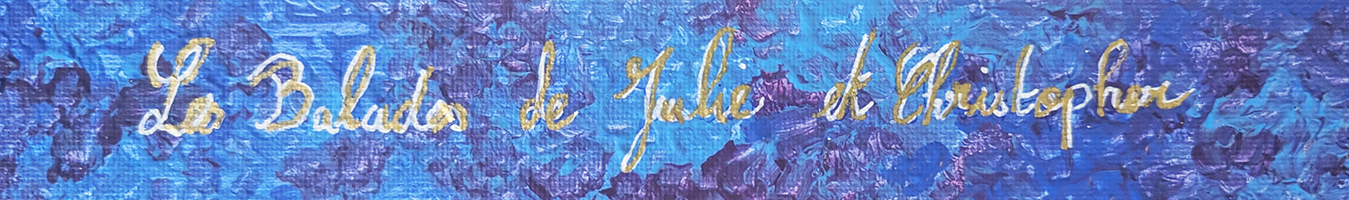
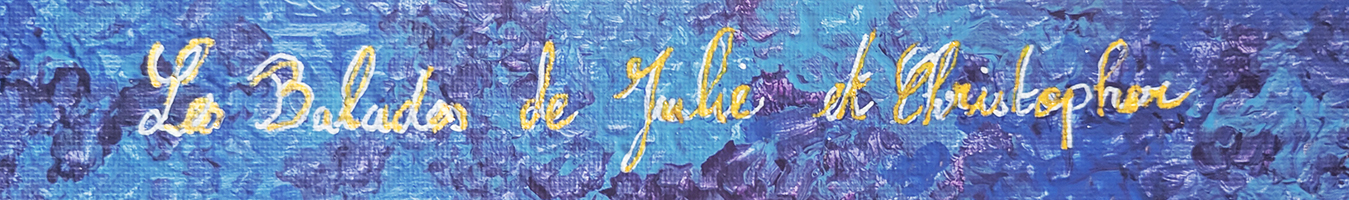
baniere

diff --git a/posts/superfacial/index.html b/posts/superfacial/index.html
@@ -99,15 +99,6 @@ Une mini expo, mais qui a le bon goût d’être gratuite. Au rendez-vous : humo
             <ul class="nav navbar-nav navbar-right">
         <li><a href="https://balades-parisiennes.github.io/blog/posts/projet-blog/">About</a></li>
         <li><a href="https://github.com/balades-parisiennes/blog/wiki">Contact</a></li>
-        <li class="dropdown">
-          <a href="#" class="dropdown-toggle" data-toggle="dropdown" role="button" aria-haspopup="true" aria-expanded="false">Download <span class="caret"></span></a>
-          <ul class="dropdown-menu">
-            <li><a target="_blank" href="https://github.com/bul-ikana/hugo-cards">Project</a></li>
-            <li><a href="https://github.com/bul-ikana/hugo-cards.git">Download</a></li>
-            <li role="separator" class="divider"></li>
-            <li><a target="_blank" href="https://themes.gohugo.io/">More Themes</a></li>
-          </ul>
-        </li>
       </ul>
     </div>
   </div>
@@ -115,8 +106,8 @@ Une mini expo, mais qui a le bon goût d’être gratuite. Au rendez-vous : humo
   <div style="display: flex; justify-content: center; padding: 10px 0;">
     <a href="https://balades-parisiennes.github.io/blog/">
         <img src="/blog/images/images/baniere_s.jpg" alt="Accueil"
-           style="max-height: 70px; height:auto; border-radius:8px;">
-		<br>
+           style="max-height: 80px; height:auto; border-radius:8px;">
+		<br><br>
     </a>
   </div>
 </nav>
@@ -144,7 +135,7 @@ Une mini expo, mais qui a le bon goût d’être gratuite. Au rendez-vous : humo
 <p>Il fait beau, direction les quais de Seine.
 On mange – c’est pas bon et ça coûte 20 euros… alors pour se consoler :
 Direction les Quais de la Photo !</p>
-<h2 id="hahahugoshortcode7s0hbhb"><table style="margin:auto; text-align:center;">
+<h2 id="hahahugoshortcode4s0hbhb"><table style="margin:auto; text-align:center;">
   <tr><td>
       <a href="https://res.cloudinary.com/dzxydg8dv/image/upload/v1750679100/1_hcmgzy.jpg" data-lightbox="galerie" data-title="Image 1">
         <img src="https://res.cloudinary.com/dzxydg8dv/image/upload/v1750679100/1_hcmgzy.jpg" alt="Image 1" style="max-height: 400px; object-fit: contain;" />
@@ -164,7 +155,7 @@ Au rendez-vous : humour et introspection.
 Comme d’habitude, de la sincérité – les artifices ne sont qu’artistiques.
 C’est émouvant, c’est touchant, et on n’en a pas assez…
 Ce qui est plutôt cocasse, pour une SUPERFACIAL.</p>
-<h2 id="hahahugoshortcode7s1hbhb"><table style="margin:auto; text-align:center;">
+<h2 id="hahahugoshortcode4s1hbhb"><table style="margin:auto; text-align:center;">
   <tr><td>
       <a href="https://res.cloudinary.com/dzxydg8dv/image/upload/v1750679100/4_a6gkmw.jpg" data-lightbox="galerie" data-title="Image 1">
         <img src="https://res.cloudinary.com/dzxydg8dv/image/upload/v1750679100/4_a6gkmw.jpg" alt="Image 1" style="max-height: 400px; object-fit: contain;" />
@@ -179,7 +170,7 @@ Ce qui est plutôt cocasse, pour une SUPERFACIAL.</p>
       </a>
     </td></tr>
 </table></h2>
-<h2 id="hahahugoshortcode7s2hbhb"><table style="margin:auto; text-align:center;">
+<h2 id="hahahugoshortcode4s2hbhb"><table style="margin:auto; text-align:center;">
   <tr><td>
       <a href="https://res.cloudinary.com/dzxydg8dv/image/upload/v1750679100/7_eo4djh.jpg" data-lightbox="galerie" data-title="Image 1">
         <img src="https://res.cloudinary.com/dzxydg8dv/image/upload/v1750679100/7_eo4djh.jpg" alt="Image 1" style="max-height: 400px; object-fit: contain;" />

diff --git a/posts/house-of-dream/index.html b/posts/house-of-dream/index.html
@@ -96,15 +96,6 @@ House of Dreamers, c’est une succession de tableaux tout droit sortis d’un r
             <ul class="nav navbar-nav navbar-right">
         <li><a href="https://balades-parisiennes.github.io/blog/posts/projet-blog/">About</a></li>
         <li><a href="https://github.com/balades-parisiennes/blog/wiki">Contact</a></li>
-        <li class="dropdown">
-          <a href="#" class="dropdown-toggle" data-toggle="dropdown" role="button" aria-haspopup="true" aria-expanded="false">Download <span class="caret"></span></a>
-          <ul class="dropdown-menu">
-            <li><a target="_blank" href="https://github.com/bul-ikana/hugo-cards">Project</a></li>
-            <li><a href="https://github.com/bul-ikana/hugo-cards.git">Download</a></li>
-            <li role="separator" class="divider"></li>
-            <li><a target="_blank" href="https://themes.gohugo.io/">More Themes</a></li>
-          </ul>
-        </li>
       </ul>
     </div>
   </div>
@@ -112,8 +103,8 @@ House of Dreamers, c’est une succession de tableaux tout droit sortis d’un r
   <div style="display: flex; justify-content: center; padding: 10px 0;">
     <a href="https://balades-parisiennes.github.io/blog/">
         <img src="/blog/images/images/baniere_s.jpg" alt="Accueil"
-           style="max-height: 70px; height:auto; border-radius:8px;">
-		<br>
+           style="max-height: 80px; height:auto; border-radius:8px;">
+		<br><br>
     </a>
   </div>
 </nav>
@@ -142,7 +133,7 @@ House of Dreamers, c’est une succession de tableaux tout droit sortis d’un r
 <em>À tous les rêveurs lucides, magiciens de l’ordinaire, enfants du crépuscule.</em>
 <em>Et même à ceux que la brume du réel a endormis…</em>
 <strong>L’exposition House of Dreamers vous tend la main — pour un voyage au-delà du visible.</strong></p>
-<h2 id="hahahugoshortcode2s0hbhb"><table style="margin:auto; text-align:center;">
+<h2 id="hahahugoshortcode6s0hbhb"><table style="margin:auto; text-align:center;">
   <tr><td>
       <a href="https://res.cloudinary.com/dzxydg8dv/image/upload/v1750924009/4_resultat_eedcuq.jpg" data-lightbox="galerie" data-title="Image 1">
         <img src="https://res.cloudinary.com/dzxydg8dv/image/upload/v1750924009/4_resultat_eedcuq.jpg" alt="Image 1" style="max-height: 400px; object-fit: contain;" />
@@ -161,7 +152,7 @@ House of Dreamers, c’est une succession de tableaux tout droit sortis d’un r
 Un régal technicolor, une route arc-en-ciel, un gâteau psychédélique à déguster des yeux.</p>
 <p>On randonne en forêt enchantée, on nage dans une mare de boules couleur bubble gum.
 On fait du sport, avant de venir se reposer dans les pièces d’une maison sens dessus dessous.</p>
-<h2 id="hahahugoshortcode2s1hbhb"><table style="margin:auto; text-align:center;">
+<h2 id="hahahugoshortcode6s1hbhb"><table style="margin:auto; text-align:center;">
   <tr><td>
       <a href="https://res.cloudinary.com/dzxydg8dv/image/upload/v1750924009/1_resultat_y6pcbx.jpg" data-lightbox="galerie" data-title="Image 1">
         <img src="https://res.cloudinary.com/dzxydg8dv/image/upload/v1750924009/1_resultat_y6pcbx.jpg" alt="Image 1" style="max-height: 400px; object-fit: contain;" />

diff --git a/posts/artemisia/index.html b/posts/artemisia/index.html
@@ -96,15 +96,6 @@ Sans le savoir, je découvrais de nouveau une artiste dans les sujets qui m’an
             <ul class="nav navbar-nav navbar-right">
         <li><a href="https://balades-parisiennes.github.io/blog/posts/projet-blog/">About</a></li>
         <li><a href="https://github.com/balades-parisiennes/blog/wiki">Contact</a></li>
-        <li class="dropdown">
-          <a href="#" class="dropdown-toggle" data-toggle="dropdown" role="button" aria-haspopup="true" aria-expanded="false">Download <span class="caret"></span></a>
-          <ul class="dropdown-menu">
-            <li><a target="_blank" href="https://github.com/bul-ikana/hugo-cards">Project</a></li>
-            <li><a href="https://github.com/bul-ikana/hugo-cards.git">Download</a></li>
-            <li role="separator" class="divider"></li>
-            <li><a target="_blank" href="https://themes.gohugo.io/">More Themes</a></li>
-          </ul>
-        </li>
       </ul>
     </div>
   </div>
@@ -112,8 +103,8 @@ Sans le savoir, je découvrais de nouveau une artiste dans les sujets qui m’an
   <div style="display: flex; justify-content: center; padding: 10px 0;">
     <a href="https://balades-parisiennes.github.io/blog/">
         <img src="/blog/images/images/baniere_s.jpg" alt="Accueil"
-           style="max-height: 70px; height:auto; border-radius:8px;">
-		<br>
+           style="max-height: 80px; height:auto; border-radius:8px;">
+		<br><br>
     </a>
   </div>
 </nav>
@@ -141,7 +132,7 @@ Sans le savoir, je découvrais de nouveau une artiste dans les sujets qui m’an
 <p>Sans le savoir, je découvrais de nouveau une artiste dans les sujets qui m’animent depuis presque douze mois : le combat contre les violences faites aux femmes.</p>
 <p>Artemisia Gentileschi est fille de peintre italien au XVIIe siècle. Sa mère étant décédée pendant sa jeunesse, elle est élevée par son père Orazio. Violée par l’un des amis artistes de son père à l’âge de 18 ans, contre toute attente, son père la défend et porte plainte. Durant le procès elle est torturée pour vérifier la véracité de ses propos. Elle gagne le procès mais l’homme ne sera jamais condamné.</p>
 <p><strong>Très douée, elle suit les traces de son père et devient peintre de cour à succès, sous le patronage des Médicis et du roi d&rsquo;Angleterre Charles Ier.</strong></p>
-<h2 id="hahahugoshortcode6s0hbhb"><table style="margin:auto; text-align:center;">
+<h2 id="hahahugoshortcode5s0hbhb"><table style="margin:auto; text-align:center;">
   <tr><td>
       <a href="https://res.cloudinary.com/dzxydg8dv/image/upload/v1750866646/3_kai3j9.jpg" data-lightbox="galerie" data-title="Image 1">
         <img src="https://res.cloudinary.com/dzxydg8dv/image/upload/v1750866646/3_kai3j9.jpg" alt="Image 1" style="max-height: 400px; object-fit: contain;" />

diff --git a/posts/projet-blog/index.html b/posts/projet-blog/index.html
@@ -102,15 +102,6 @@ les œuvres qui nous ont éblouis, les bancs les plus confortables, et même les
             <ul class="nav navbar-nav navbar-right">
         <li><a href="https://balades-parisiennes.github.io/blog/posts/projet-blog/">About</a></li>
         <li><a href="https://github.com/balades-parisiennes/blog/wiki">Contact</a></li>
-        <li class="dropdown">
-          <a href="#" class="dropdown-toggle" data-toggle="dropdown" role="button" aria-haspopup="true" aria-expanded="false">Download <span class="caret"></span></a>
-          <ul class="dropdown-menu">
-            <li><a target="_blank" href="https://github.com/bul-ikana/hugo-cards">Project</a></li>
-            <li><a href="https://github.com/bul-ikana/hugo-cards.git">Download</a></li>
-            <li role="separator" class="divider"></li>
-            <li><a target="_blank" href="https://themes.gohugo.io/">More Themes</a></li>
-          </ul>
-        </li>
       </ul>
     </div>
   </div>
@@ -118,8 +109,8 @@ les œuvres qui nous ont éblouis, les bancs les plus confortables, et même les
   <div style="display: flex; justify-content: center; padding: 10px 0;">
     <a href="https://balades-parisiennes.github.io/blog/">
         <img src="/blog/images/images/baniere_s.jpg" alt="Accueil"
-           style="max-height: 70px; height:auto; border-radius:8px;">
-		<br>
+           style="max-height: 80px; height:auto; border-radius:8px;">
+		<br><br>
     </a>
   </div>
 </nav>

diff --git a/posts/mystere-cleopatre/index.html b/posts/mystere-cleopatre/index.html
@@ -99,15 +99,6 @@ Deuxième salle. Et bam ! Les Romains débarquent. Pas très fans d’une femme 
             <ul class="nav navbar-nav navbar-right">
         <li><a href="https://balades-parisiennes.github.io/blog/posts/projet-blog/">About</a></li>
         <li><a href="https://github.com/balades-parisiennes/blog/wiki">Contact</a></li>
-        <li class="dropdown">
-          <a href="#" class="dropdown-toggle" data-toggle="dropdown" role="button" aria-haspopup="true" aria-expanded="false">Download <span class="caret"></span></a>
-          <ul class="dropdown-menu">
-            <li><a target="_blank" href="https://github.com/bul-ikana/hugo-cards">Project</a></li>
-            <li><a href="https://github.com/bul-ikana/hugo-cards.git">Download</a></li>
-            <li role="separator" class="divider"></li>
-            <li><a target="_blank" href="https://themes.gohugo.io/">More Themes</a></li>
-          </ul>
-        </li>
       </ul>
     </div>
   </div>
@@ -115,8 +106,8 @@ Deuxième salle. Et bam ! Les Romains débarquent. Pas très fans d’une femme 
   <div style="display: flex; justify-content: center; padding: 10px 0;">
     <a href="https://balades-parisiennes.github.io/blog/">
         <img src="/blog/images/images/baniere_s.jpg" alt="Accueil"
-           style="max-height: 70px; height:auto; border-radius:8px;">
-		<br>
+           style="max-height: 80px; height:auto; border-radius:8px;">
+		<br><br>
     </a>
   </div>
 </nav>

diff --git a/posts/ocean-de-lea/index.html b/posts/ocean-de-lea/index.html
@@ -96,15 +96,6 @@ Je ne m’attendais pas à un tel contraste. L’entrée impossible à trouver. 
             <ul class="nav navbar-nav navbar-right">
         <li><a href="https://balades-parisiennes.github.io/blog/posts/projet-blog/">About</a></li>
         <li><a href="https://github.com/balades-parisiennes/blog/wiki">Contact</a></li>
-        <li class="dropdown">
-          <a href="#" class="dropdown-toggle" data-toggle="dropdown" role="button" aria-haspopup="true" aria-expanded="false">Download <span class="caret"></span></a>
-          <ul class="dropdown-menu">
-            <li><a target="_blank" href="https://github.com/bul-ikana/hugo-cards">Project</a></li>
-            <li><a href="https://github.com/bul-ikana/hugo-cards.git">Download</a></li>
-            <li role="separator" class="divider"></li>
-            <li><a target="_blank" href="https://themes.gohugo.io/">More Themes</a></li>
-          </ul>
-        </li>
       </ul>
     </div>
   </div>
@@ -112,8 +103,8 @@ Je ne m’attendais pas à un tel contraste. L’entrée impossible à trouver. 
   <div style="display: flex; justify-content: center; padding: 10px 0;">
     <a href="https://balades-parisiennes.github.io/blog/">
         <img src="/blog/images/images/baniere_s.jpg" alt="Accueil"
-           style="max-height: 70px; height:auto; border-radius:8px;">
-		<br>
+           style="max-height: 80px; height:auto; border-radius:8px;">
+		<br><br>
     </a>
   </div>
 </nav>

diff --git a/posts/agnes-varda/index.html b/posts/agnes-varda/index.html
@@ -96,15 +96,6 @@
             <ul class="nav navbar-nav navbar-right">
         <li><a href="https://balades-parisiennes.github.io/blog/posts/projet-blog/">About</a></li>
         <li><a href="https://github.com/balades-parisiennes/blog/wiki">Contact</a></li>
-        <li class="dropdown">
-          <a href="#" class="dropdown-toggle" data-toggle="dropdown" role="button" aria-haspopup="true" aria-expanded="false">Download <span class="caret"></span></a>
-          <ul class="dropdown-menu">
-            <li><a target="_blank" href="https://github.com/bul-ikana/hugo-cards">Project</a></li>
-            <li><a href="https://github.com/bul-ikana/hugo-cards.git">Download</a></li>
-            <li role="separator" class="divider"></li>
-            <li><a target="_blank" href="https://themes.gohugo.io/">More Themes</a></li>
-          </ul>
-        </li>
       </ul>
     </div>
   </div>
@@ -112,8 +103,8 @@
   <div style="display: flex; justify-content: center; padding: 10px 0;">
     <a href="https://balades-parisiennes.github.io/blog/">
         <img src="/blog/images/images/baniere_s.jpg" alt="Accueil"
-           style="max-height: 70px; height:auto; border-radius:8px;">
-		<br>
+           style="max-height: 80px; height:auto; border-radius:8px;">
+		<br><br>
     </a>
   </div>
 </nav>

diff --git a/index.html b/index.html
@@ -89,15 +89,6 @@
             <ul class="nav navbar-nav navbar-right">
         <li><a href="https://balades-parisiennes.github.io/blog/posts/projet-blog/">About</a></li>
         <li><a href="https://github.com/balades-parisiennes/blog/wiki">Contact</a></li>
-        <li class="dropdown">
-          <a href="#" class="dropdown-toggle" data-toggle="dropdown" role="button" aria-haspopup="true" aria-expanded="false">Download <span class="caret"></span></a>
-          <ul class="dropdown-menu">
-            <li><a target="_blank" href="https://github.com/bul-ikana/hugo-cards">Project</a></li>
-            <li><a href="https://github.com/bul-ikana/hugo-cards.git">Download</a></li>
-            <li role="separator" class="divider"></li>
-            <li><a target="_blank" href="https://themes.gohugo.io/">More Themes</a></li>
-          </ul>
-        </li>
       </ul>
     </div>
   </div>
@@ -105,8 +96,8 @@
   <div style="display: flex; justify-content: center; padding: 10px 0;">
     <a href="https://balades-parisiennes.github.io/blog/">
         <img src="/blog/images/images/baniere_s.jpg" alt="Accueil"
-           style="max-height: 70px; height:auto; border-radius:8px;">
-		<br>
+           style="max-height: 80px; height:auto; border-radius:8px;">
+		<br><br>
     </a>
   </div>
 </nav>

diff --git a/categories/index.html b/categories/index.html
@@ -74,15 +74,6 @@
             <ul class="nav navbar-nav navbar-right">
         <li><a href="https://balades-parisiennes.github.io/blog/posts/projet-blog/">About</a></li>
         <li><a href="https://github.com/balades-parisiennes/blog/wiki">Contact</a></li>
-        <li class="dropdown">
-          <a href="#" class="dropdown-toggle" data-toggle="dropdown" role="button" aria-haspopup="true" aria-expanded="false">Download <span class="caret"></span></a>
-          <ul class="dropdown-menu">
-            <li><a target="_blank" href="https://github.com/bul-ikana/hugo-cards">Project</a></li>
-            <li><a href="https://github.com/bul-ikana/hugo-cards.git">Download</a></li>
-            <li role="separator" class="divider"></li>
-            <li><a target="_blank" href="https://themes.gohugo.io/">More Themes</a></li>
-          </ul>
-        </li>
       </ul>
     </div>
   </div>
@@ -90,8 +81,8 @@
   <div style="display: flex; justify-content: center; padding: 10px 0;">
     <a href="https://balades-parisiennes.github.io/blog/">
         <img src="/blog/images/images/baniere_s.jpg" alt="Accueil"
-           style="max-height: 70px; height:auto; border-radius:8px;">
-		<br>
+           style="max-height: 80px; height:auto; border-radius:8px;">
+		<br><br>
     </a>
   </div>
 </nav>

diff --git a/posts/index.html b/posts/index.html
@@ -74,15 +74,6 @@
             <ul class="nav navbar-nav navbar-right">
         <li><a href="https://balades-parisiennes.github.io/blog/posts/projet-blog/">About</a></li>
         <li><a href="https://github.com/balades-parisiennes/blog/wiki">Contact</a></li>
-        <li class="dropdown">
-          <a href="#" class="dropdown-toggle" data-toggle="dropdown" role="button" aria-haspopup="true" aria-expanded="false">Download <span class="caret"></span></a>
-          <ul class="dropdown-menu">
-            <li><a target="_blank" href="https://github.com/bul-ikana/hugo-cards">Project</a></li>
-            <li><a href="https://github.com/bul-ikana/hugo-cards.git">Download</a></li>
-            <li role="separator" class="divider"></li>
-            <li><a target="_blank" href="https://themes.gohugo.io/">More Themes</a></li>
-          </ul>
-        </li>
       </ul>
     </div>
   </div>
@@ -90,8 +81,8 @@
   <div style="display: flex; justify-content: center; padding: 10px 0;">
     <a href="https://balades-parisiennes.github.io/blog/">
         <img src="/blog/images/images/baniere_s.jpg" alt="Accueil"
-           style="max-height: 70px; height:auto; border-radius:8px;">
-		<br>
+           style="max-height: 80px; height:auto; border-radius:8px;">
+		<br><br>
     </a>
   </div>
 </nav>

diff --git a/tags/carrousel-du-louvre/index.html b/tags/carrousel-du-louvre/index.html
@@ -74,15 +74,6 @@
             <ul class="nav navbar-nav navbar-right">
         <li><a href="https://balades-parisiennes.github.io/blog/posts/projet-blog/">About</a></li>
         <li><a href="https://github.com/balades-parisiennes/blog/wiki">Contact</a></li>
-        <li class="dropdown">
-          <a href="#" class="dropdown-toggle" data-toggle="dropdown" role="button" aria-haspopup="true" aria-expanded="false">Download <span class="caret"></span></a>
-          <ul class="dropdown-menu">
-            <li><a target="_blank" href="https://github.com/bul-ikana/hugo-cards">Project</a></li>
-            <li><a href="https://github.com/bul-ikana/hugo-cards.git">Download</a></li>
-            <li role="separator" class="divider"></li>
-            <li><a target="_blank" href="https://themes.gohugo.io/">More Themes</a></li>
-          </ul>
-        </li>
       </ul>
     </div>
   </div>
@@ -90,8 +81,8 @@
   <div style="display: flex; justify-content: center; padding: 10px 0;">
     <a href="https://balades-parisiennes.github.io/blog/">
         <img src="/blog/images/images/baniere_s.jpg" alt="Accueil"
-           style="max-height: 70px; height:auto; border-radius:8px;">
-		<br>
+           style="max-height: 80px; height:auto; border-radius:8px;">
+		<br><br>
     </a>
   </div>
 </nav>

diff --git a/tags/cinéma/index.html b/tags/cinéma/index.html
@@ -74,15 +74,6 @@
             <ul class="nav navbar-nav navbar-right">
         <li><a href="https://balades-parisiennes.github.io/blog/posts/projet-blog/">About</a></li>
         <li><a href="https://github.com/balades-parisiennes/blog/wiki">Contact</a></li>
-        <li class="dropdown">
-          <a href="#" class="dropdown-toggle" data-toggle="dropdown" role="button" aria-haspopup="true" aria-expanded="false">Download <span class="caret"></span></a>
-          <ul class="dropdown-menu">
-            <li><a target="_blank" href="https://github.com/bul-ikana/hugo-cards">Project</a></li>
-            <li><a href="https://github.com/bul-ikana/hugo-cards.git">Download</a></li>
-            <li role="separator" class="divider"></li>
-            <li><a target="_blank" href="https://themes.gohugo.io/">More Themes</a></li>
-          </ul>
-        </li>
       </ul>
     </div>
   </div>
@@ -90,8 +81,8 @@
   <div style="display: flex; justify-content: center; padding: 10px 0;">
     <a href="https://balades-parisiennes.github.io/blog/">
         <img src="/blog/images/images/baniere_s.jpg" alt="Accueil"
-           style="max-height: 70px; height:auto; border-radius:8px;">
-		<br>
+           style="max-height: 80px; height:auto; border-radius:8px;">
+		<br><br>
     </a>
   </div>
 </nav>
